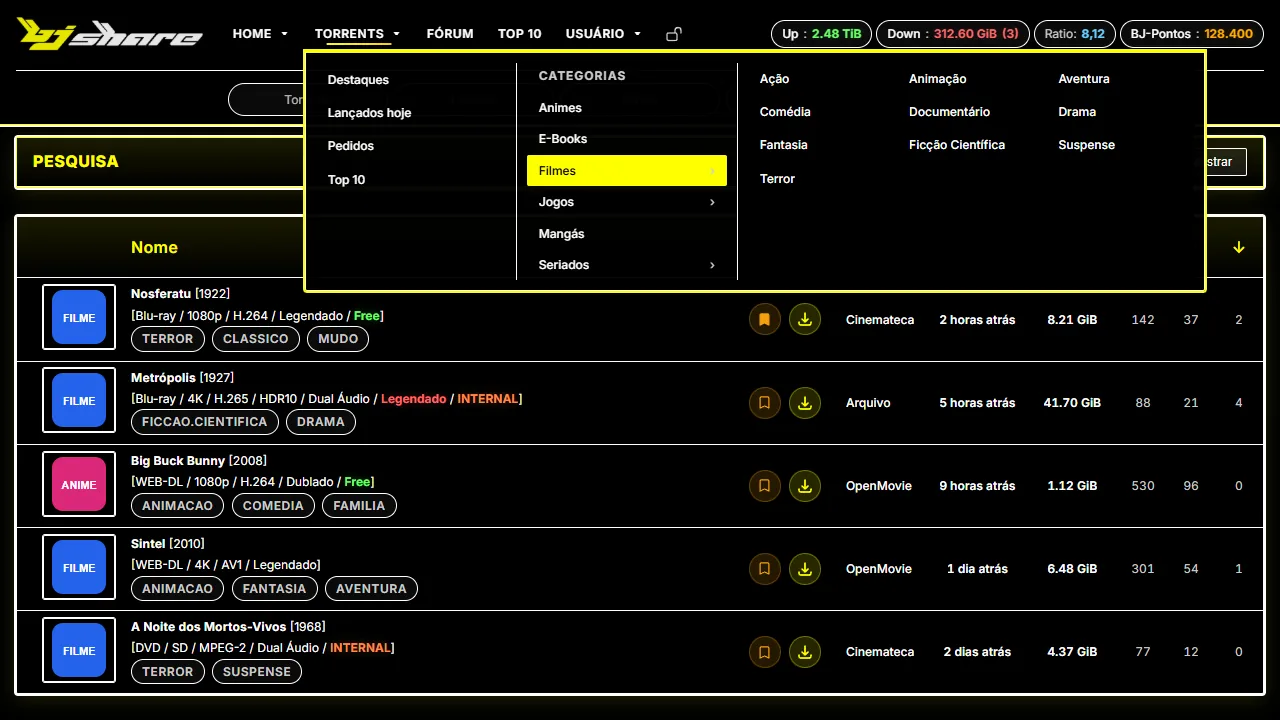
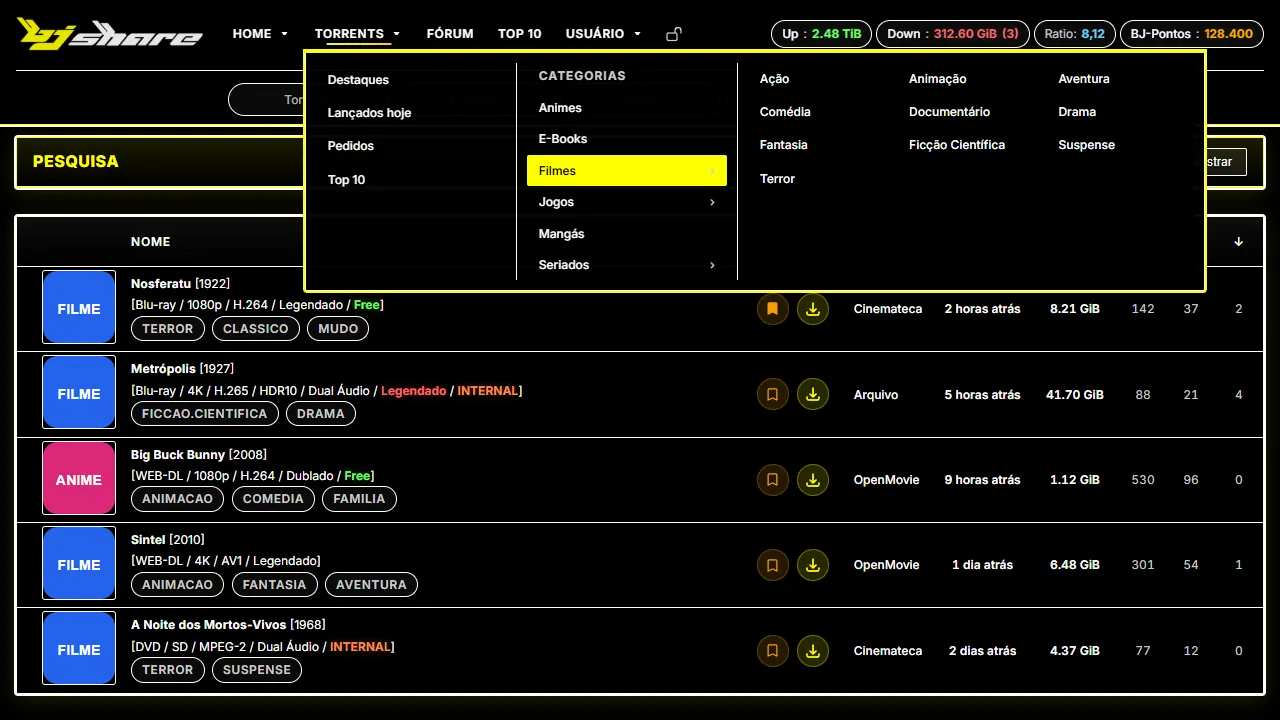
Cyberpunk: texto de leitura em branco, amarelo só nos destaques
Texto, links e menus usavam o mesmo amarelo das cores de destaque, o que
cansava a vista. Agora o texto de leitura é branco; amarelo fica para
títulos de caixa, nomes de torrent, botões e destaques; ciano segue para
hover e texto secundário.

diff --git a/bj-zerfeus-theme-cyberpunk.full.css b/bj-zerfeus-theme-cyberpunk.full.css
@@ -3125,9 +3125,11 @@ ul.collage_images img {
     --bg-card-hover: rgb(0 0 0 / 0.88);
     --header-bg: #000000;
 
-    --text-muted: rgb(0 240 255 / 0.55);
-    --text-main: rgb(252 238 10 / 0.82);
-    --text-bright: var(--cp-yellow);
+    /* Texto de leitura em branco; amarelo fica para títulos, nomes de torrent, botões e
+       destaques (tudo amarelo cansava a vista); ciano para hover e texto secundário */
+    --text-muted: rgb(0 240 255 / 0.6);
+    --text-main: #c9d1d9;
+    --text-bright: #eef2f5;
     --text-strong: #ffffff;
 
     --accent: var(--cp-yellow);
@@ -3158,7 +3160,7 @@ ul.collage_images img {
     --link-glow: rgb(0 240 255 / 0.65);
 
     --header-line: var(--cp-hud);
-    --header-link: var(--cp-yellow);
+    --header-link: var(--text-bright);
     --header-link-hover: var(--cp-hud);
     --menu-hover-bg: var(--accent);
     --menu-hover-fg: var(--on-accent);

diff --git a/bj-zerfeus-theme-cyberpunk.css b/bj-zerfeus-theme-cyberpunk.css
@@ -28,9 +28,11 @@
     --bg-card-hover: rgb(0 0 0 / 0.88);
     --header-bg: #000000;
 
-    --text-muted: rgb(0 240 255 / 0.55);
-    --text-main: rgb(252 238 10 / 0.82);
-    --text-bright: var(--cp-yellow);
+    /* Texto de leitura em branco; amarelo fica para títulos, nomes de torrent, botões e
+       destaques (tudo amarelo cansava a vista); ciano para hover e texto secundário */
+    --text-muted: rgb(0 240 255 / 0.6);
+    --text-main: #c9d1d9;
+    --text-bright: #eef2f5;
     --text-strong: #ffffff;
 
     --accent: var(--cp-yellow);
@@ -61,7 +63,7 @@
     --link-glow: rgb(0 240 255 / 0.65);
 
     --header-line: var(--cp-hud);
-    --header-link: var(--cp-yellow);
+    --header-link: var(--text-bright);
     --header-link-hover: var(--cp-hud);
     --menu-hover-bg: var(--accent);
     --menu-hover-fg: var(--on-accent);
